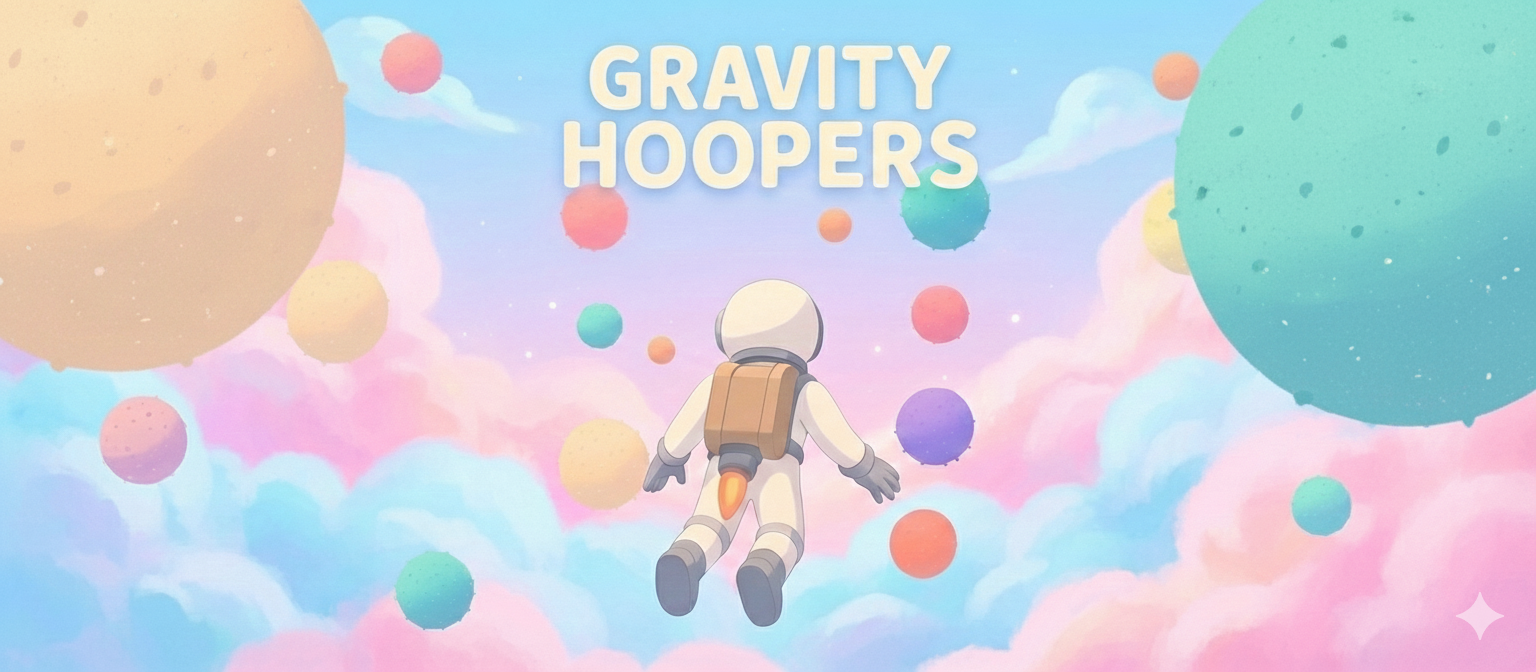
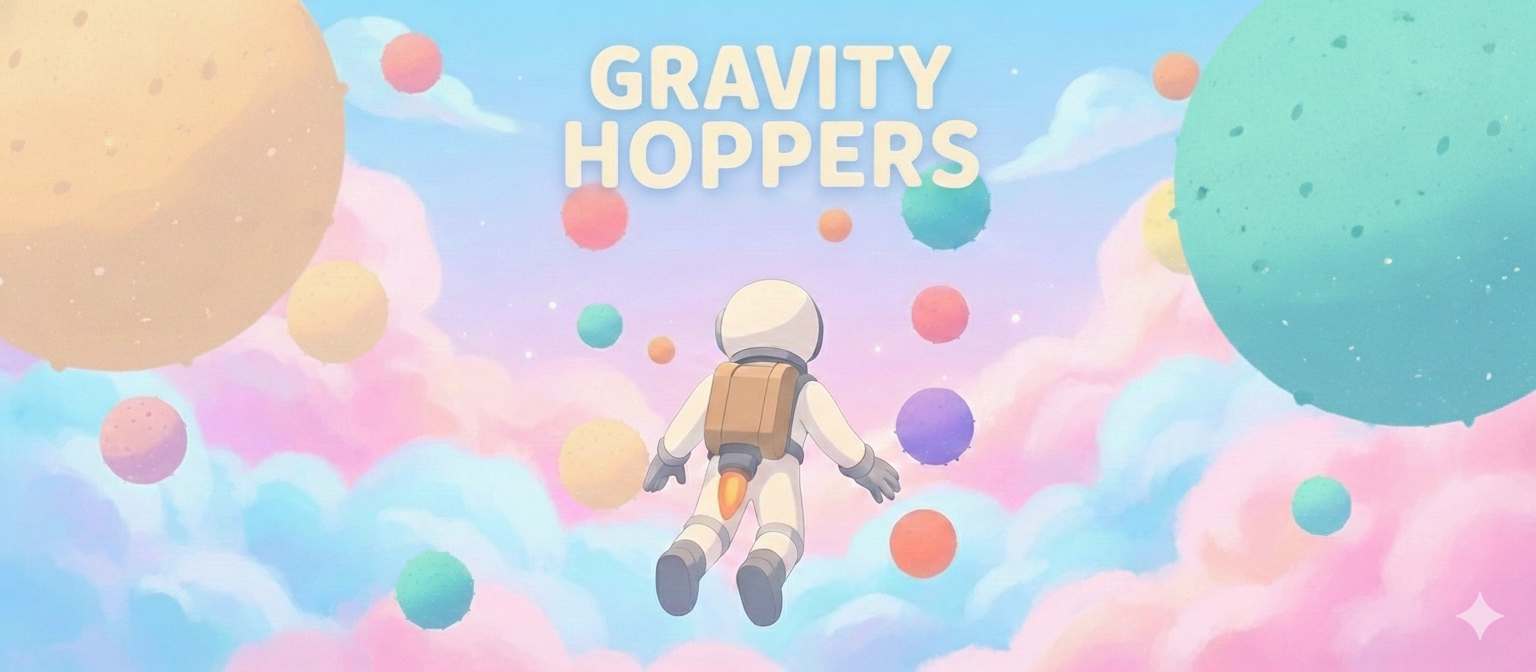
refactor: Rename project

diff --git a/packages/client/index.html b/packages/client/index.html
@@ -3,7 +3,7 @@
   <head>
     <meta charset="UTF-8" />
     <meta name="viewport" content="width=device-width, initial-scale=1.0" />
-    <title>Gravity Hoopers</title>
+    <title>Gravity Hoppers</title>
     <style>
       body,
       html,

diff --git a/CLAUDE.md b/CLAUDE.md
@@ -4,7 +4,7 @@ This file provides guidance to Claude Code (claude.ai/code) when working with co
 
 ## Project Overview
 
-Gravity Hoopers is a multiplayer 3D space game where players navigate between planets using jetpack thrust. The game features a multi-planet system with dynamic gravity that pulls players toward nearby celestial bodies, with player orientation automatically adjusting to align with the nearest planet's surface normal.
+Gravity Hoppers is a multiplayer 3D space game where players navigate between planets using jetpack thrust. The game features a multi-planet system with dynamic gravity that pulls players toward nearby celestial bodies, with player orientation automatically adjusting to align with the nearest planet's surface normal.
 
 ## Development Commands
 

diff --git a/README.md b/README.md
@@ -1,6 +1,6 @@
-# Gravity Hoopers
+# Gravity Hoppers
 
-![Gravity Hoopers Banner](banner.png)
+![Gravity Hoppers Banner](banner.png)
 
 A multiplayer 3D space exploration game where players navigate between colorful planets using jetpack thrust, experiencing dynamic gravity from nearby celestial bodies.
 
